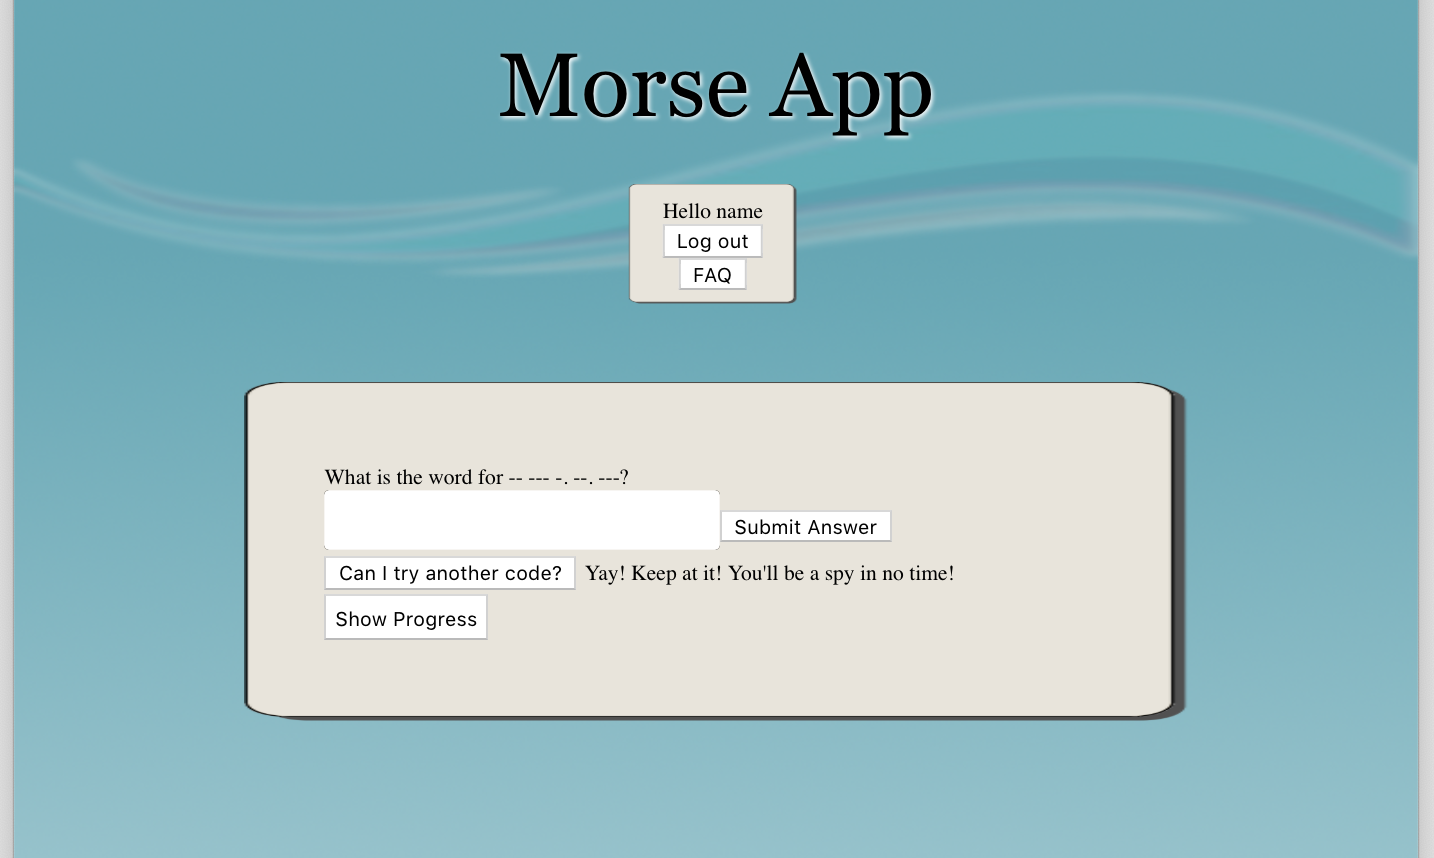
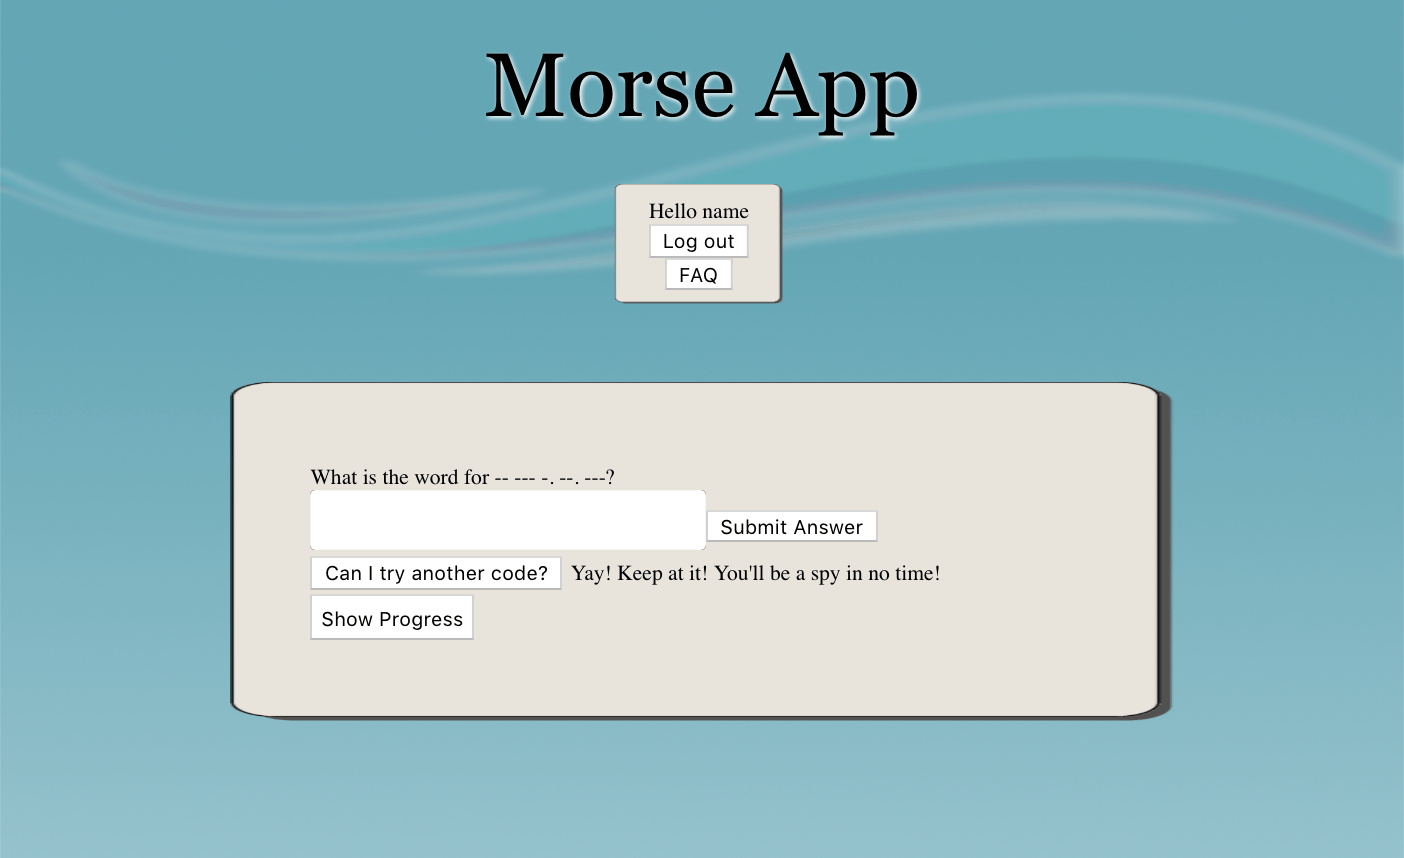
changed size of images

diff --git a/src/App.css b/src/App.css
@@ -23,7 +23,7 @@ body {
 .header {
 	grid-area: header;
 	color: white;
-	font-size: 20px;
+	/* font-size: 20px; */
 }
 
 h1 {
